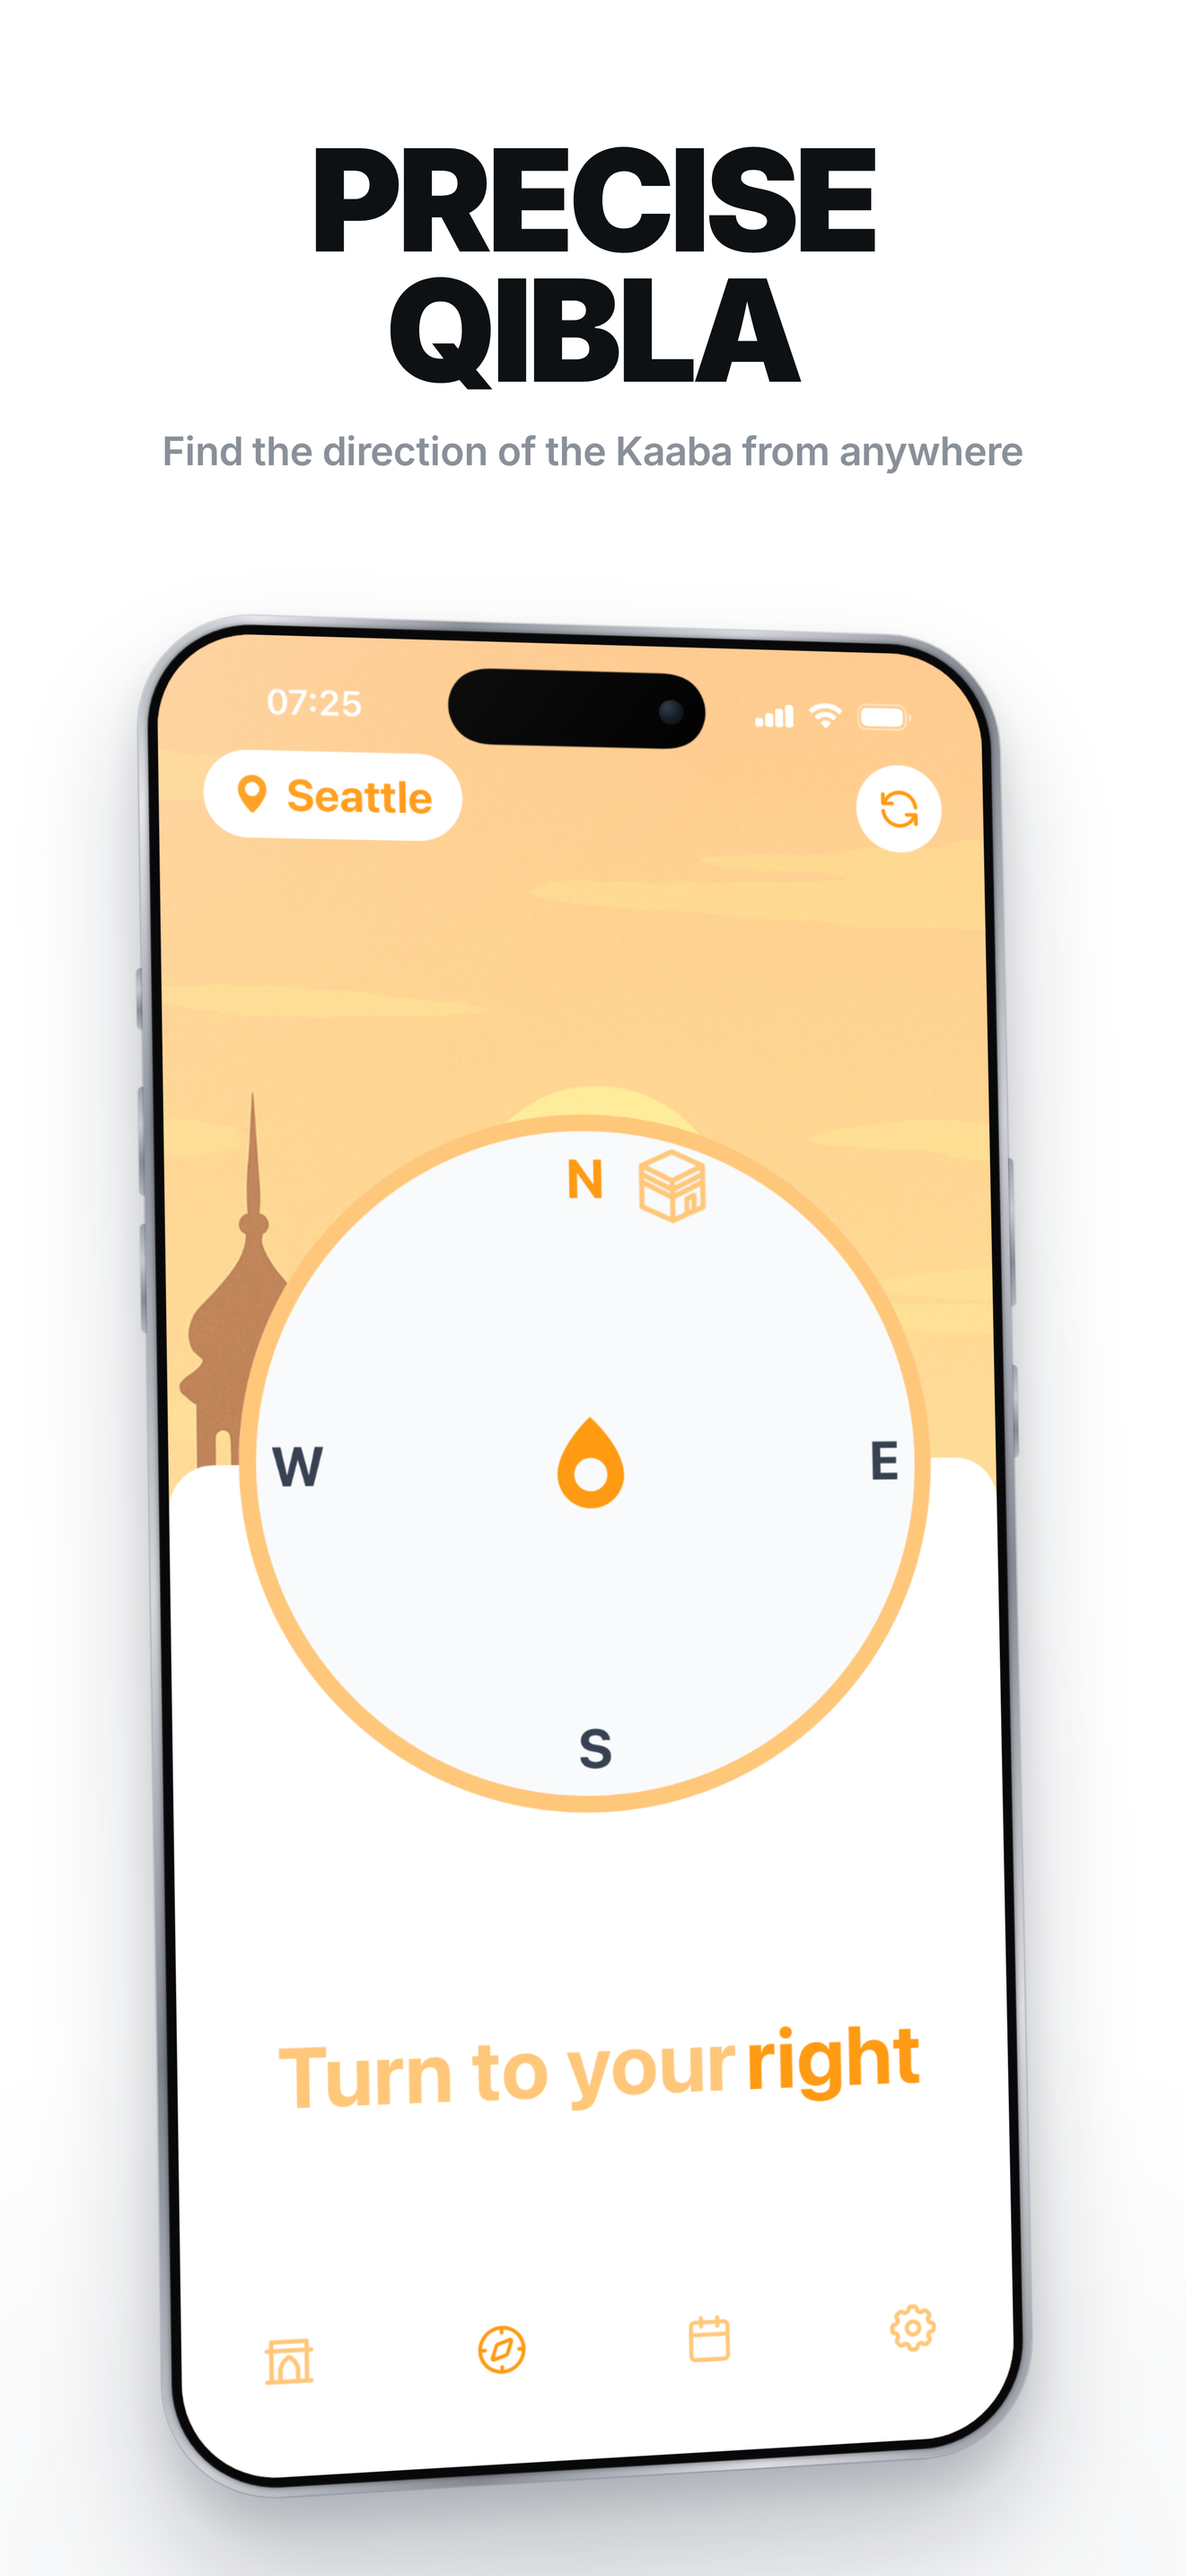
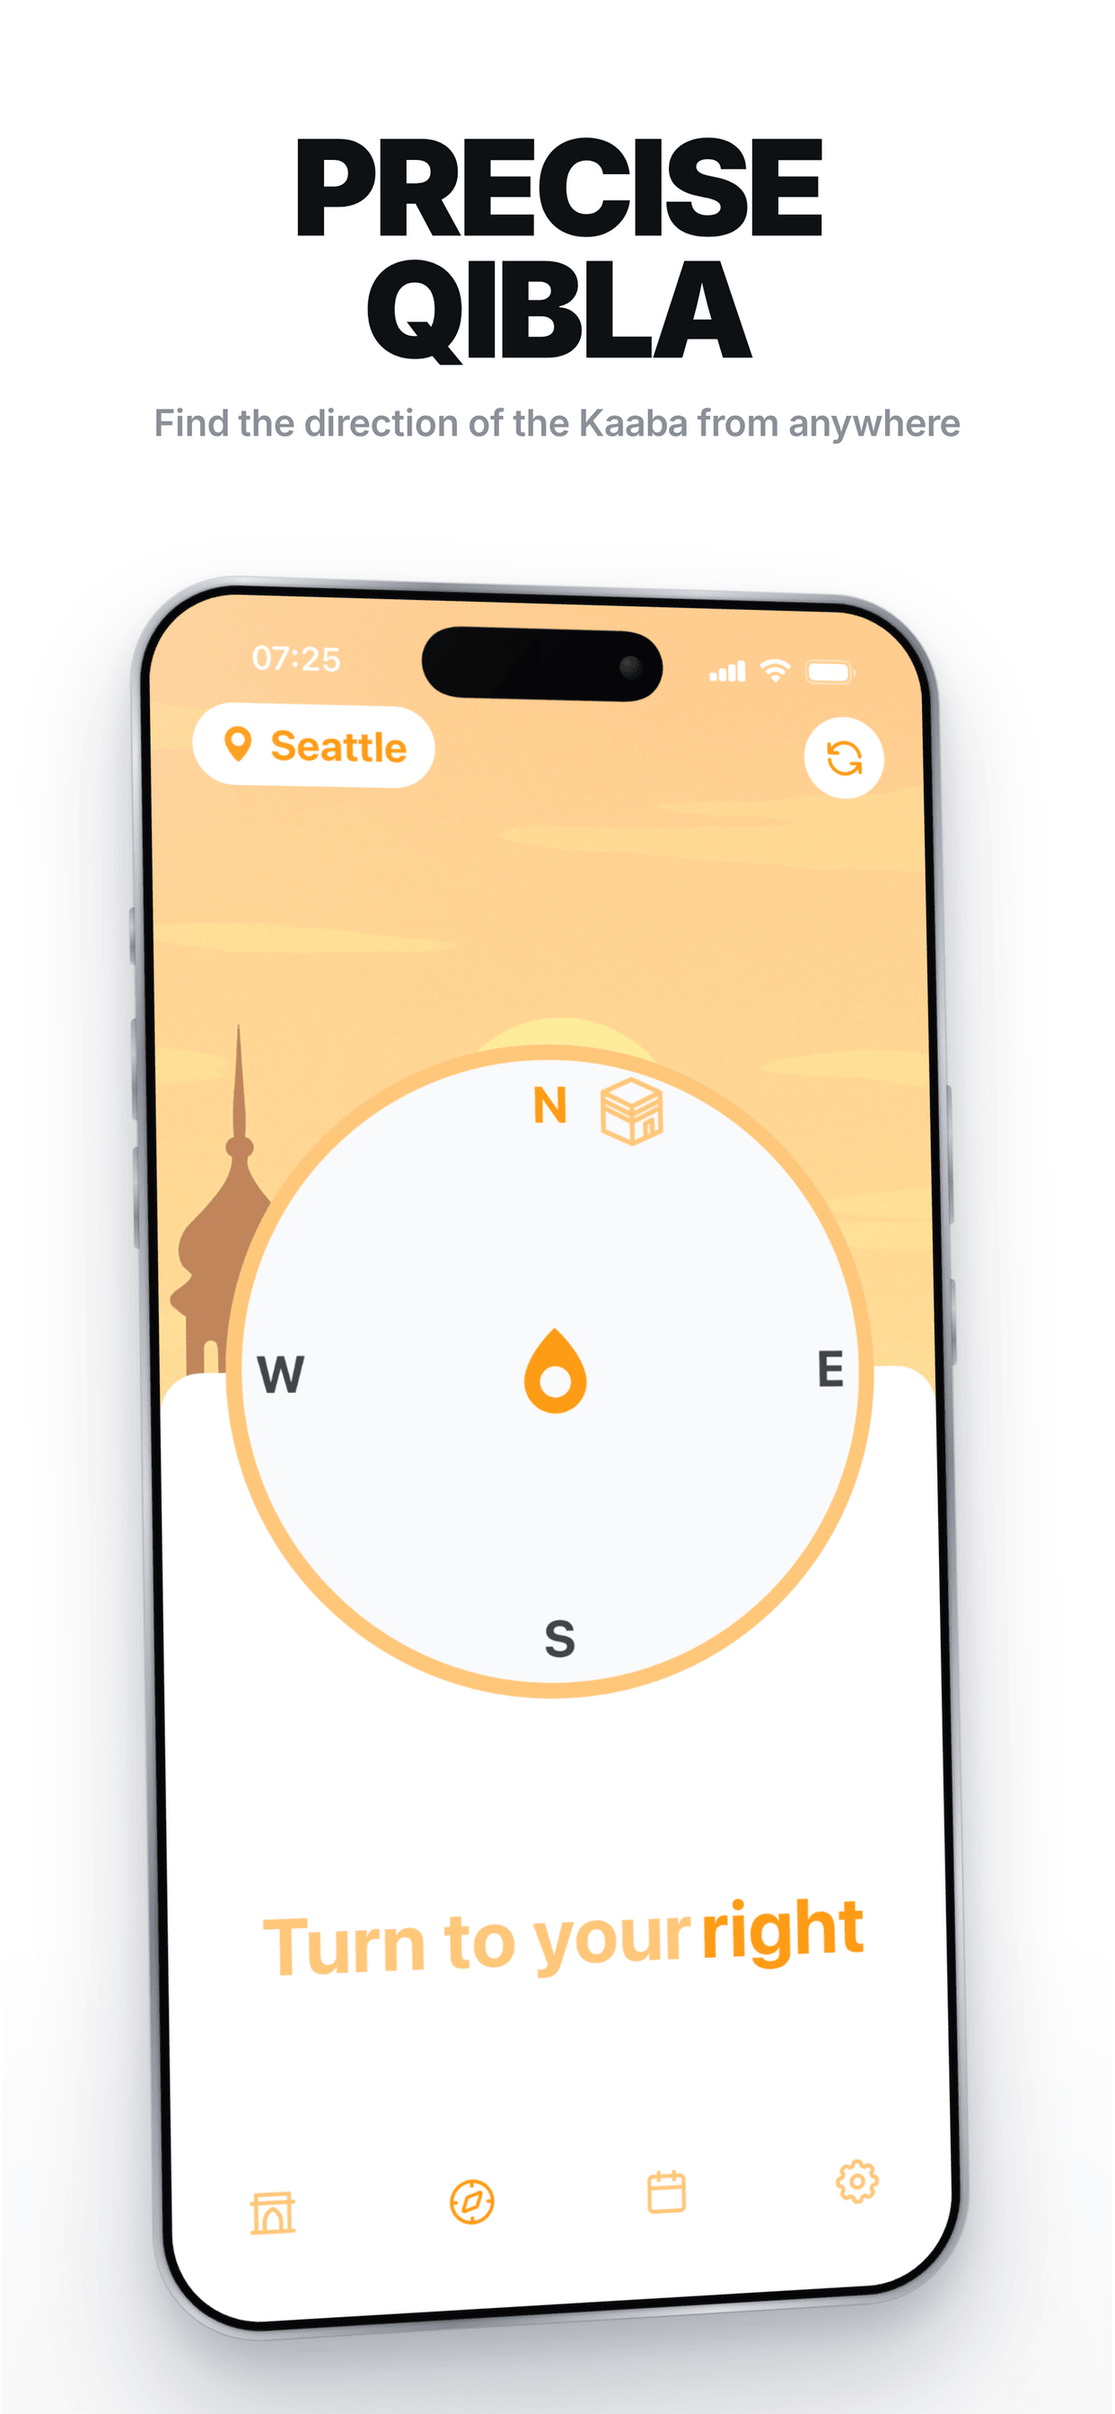
feat: adjusted Appstore images to be compliant with size requirement and tracked reviewer notes for future use

diff --git a/App_Store_Review_Notes.md b/App_Store_Review_Notes.md
@@ -1,0 +1,51 @@
+# App Store Review Notes Fardh
+
+No demo account needed. No login, no accounts, no purchases, no ads.
+
+## WHAT IT DOES
+
+Fardh is a free Islamic prayer app: prayer times for the user's location (via
+the AlAdhan API), local notifications at each prayer time, a Qibla compass, a
+Hijri calendar, and Home/Lock Screen widgets.
+
+## TESTING LOCATION
+
+1. Launch and swipe through onboarding. On the "Your Location" step tap "Enable
+   Permissions" and choose Allow While Using App (a motion prompt for the Qibla
+   compass appears too).
+2. Finish onboarding. The home screen shows prayer times for the current or
+   simulated location, city name in the header.
+3. If denied, the app still works; Prayer Times and Qibla screens show a
+   "Location Required" card linking to Settings tab > Permissions. Location is
+   When In Use only, never background.
+
+## TESTING A NOTIFICATION
+
+Real notifications are scheduled at actual prayer times, so we ship a test
+trigger:
+
+1. Settings tab > tap the round "About" section icon 5 times, leaving less
+   than 2 seconds between taps (the counter resets after a 2-second pause).
+2. A Debug section appears. Tap "Send Test Notification"; a banner fires 5
+   seconds later (background the app to see it). "Check Scheduled Notifications"
+   shows the count of real scheduled alerts.
+
+## MOTION PERMISSION
+
+Powers the Qibla compass only: rotates the needle toward the Kaaba and pulses
+haptics when aligned. Requested only when the user taps Enable Permissions. If
+denied, only the Qibla screen is affected.
+
+## BACKGROUND PROCESSING MODE
+
+BGTaskScheduler refreshes the app's own content only: tops up the widget's
+30-day prayer time buffer and reschedules local notifications when the 10-day
+queue runs low. No location access in the background; it reuses coordinates
+cached from the last in-app session.
+
+## PRIVACY
+
+Coordinates go only to api.aladhan.com to compute times and Qibla. We run no
+backend and store nothing. No analytics, ads, tracking, or accounts. Privacy
+questionnaire: Location, App Functionality, not linked to identity, not used
+for tracking.
